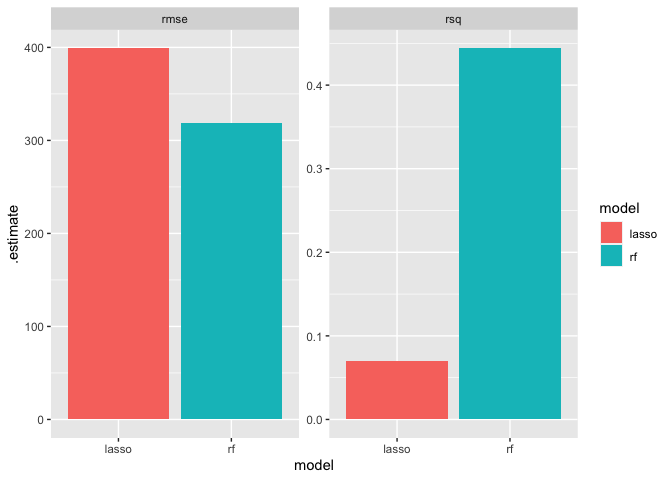
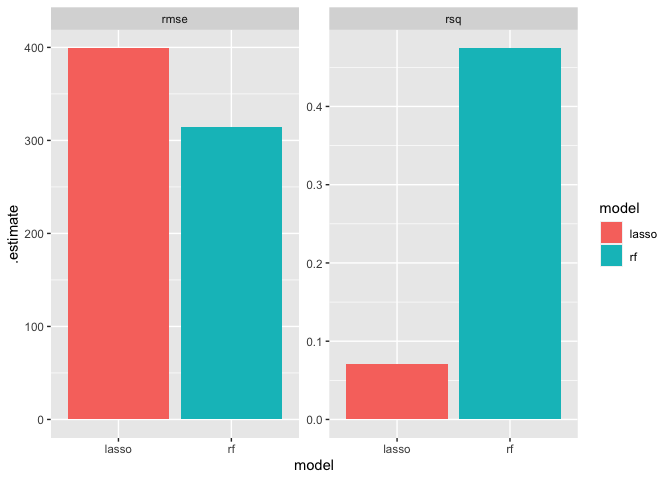
Anexos

diff --git a/Machine-Learning-.md b/Machine-Learning-.md
@@ -171,6 +171,7 @@ lasso_tune %>%
 ![](Machine-Learning-_files/figure-gfm/unnamed-chunk-7-1.png)<!-- -->
 
 ``` r
+set.seed(42)
 lasso_best_tune <- lasso_tune %>% select_best("rmse")
   
 final_lasso_model <- finalize_model(lasso_model, lasso_best_tune)  
@@ -211,8 +212,8 @@ random_forest_tune %>%
     ## # A tibble: 2 x 6
     ##   .metric .estimator    mean     n std_err .config             
     ##   <chr>   <chr>        <dbl> <int>   <dbl> <chr>               
-    ## 1 rmse    standard   302.       10 15.6    Preprocessor1_Model1
-    ## 2 rsq     standard     0.440    10  0.0761 Preprocessor1_Model1
+    ## 1 rmse    standard   302.       10 16.2    Preprocessor1_Model1
+    ## 2 rsq     standard     0.423    10  0.0794 Preprocessor1_Model1
 
 ``` r
 final_rf_wf <- workflow() %>% 
@@ -242,4 +243,4 @@ predict(final_rf_eval$.workflow[[1]], test)
 ```
 
     ##   .pred
-    ## 1  1031
+    ## 1   622

diff --git a/README.md b/README.md
@@ -28,5 +28,6 @@ Resumenes y partes importantes de los documentos :
 
 EN la fase de Machine Learning se desarrollo un algoritmo que puede identificar a que tipo de texto pertenece un párrafo para así poder compararlo entre paises y temas.
 
+* Código (https://github.com/carlosjimenez88M/Portafolio-de-productos-NLP/blob/master/Machine-Learning-.md)
 
 
